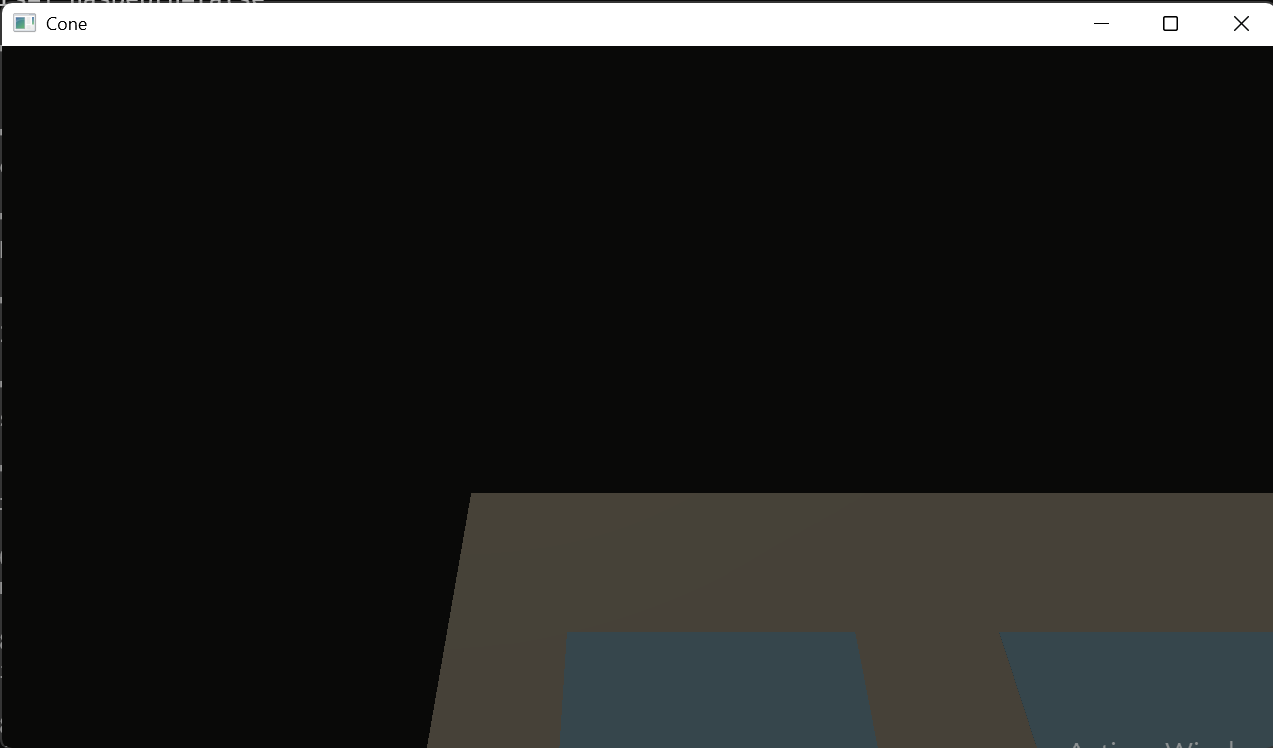
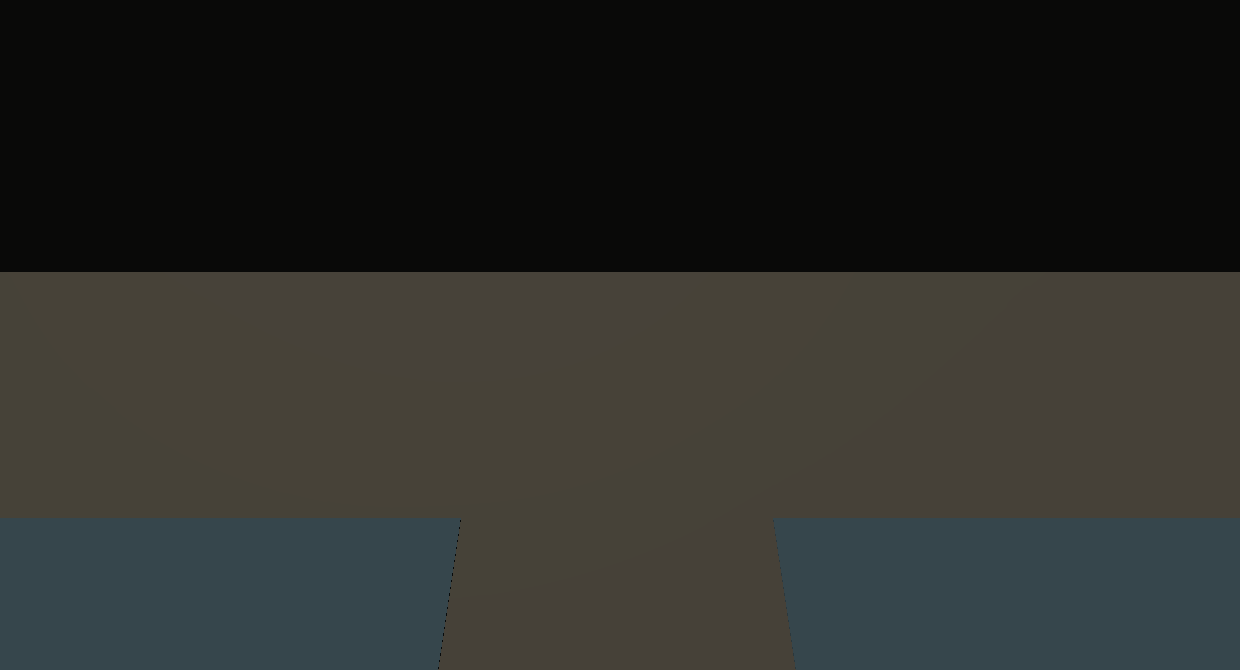
samedi 25 octobre

diff --git a/chapitre-06/exo6-le_cone_du_mauvais_ordre/cone.cpp b/chapitre-06/exo6-le_cone_du_mauvais_ordre/cone.cpp
@@ -285,7 +285,12 @@ int nkmain(const NkEntryState &state) {
 			accDX = 0;
 		}
 		const NkQuatf q = Orientation(lacet, ordre);
-		const NkVec3f tetePos = {0.30f, 1.70f, 1.20f};
+		NkVec3f tetePos = {0.30f, 1.70f, 1.20f};
+		if (const char *t = std::getenv("MASALLE_TETE")) { // position de la tete, en metres : "x,y,z"
+			float tx = 0.f, ty = 0.f, tz = 0.f;
+			if (std::sscanf(t, "%f,%f,%f", &tx, &ty, &tz) == 3)
+				tetePos = {tx, ty, tz};
+		}
 		pos = tetePos;
 		cible = tetePos + q * NkVec3f(0.f, 0.f, -1.f); // le regard vient du quaternion
 		haut = q * NkVec3f(0.f, 1.f, 0.f);               // et le haut aussi
